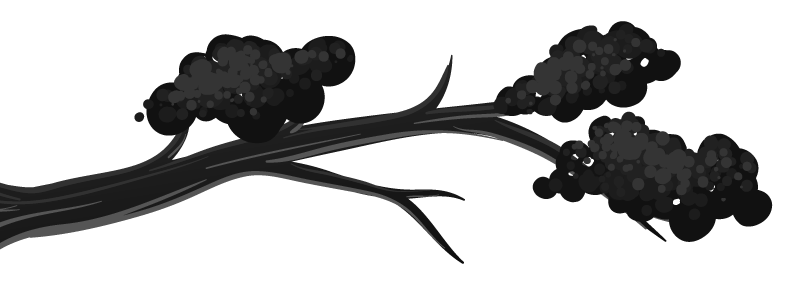
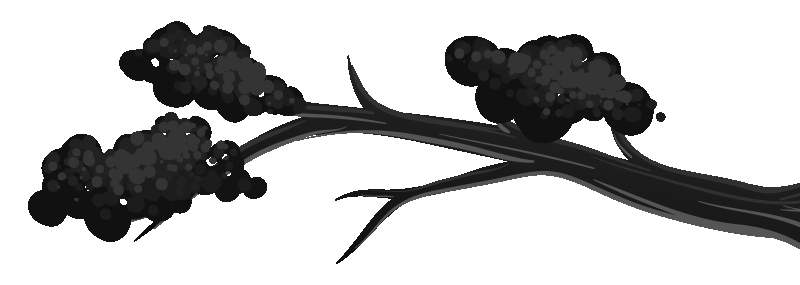
Intermediate 2

Changed region(s): [[0.0, 0.0561, 1.0, 0.9263]]

diff --git a/src/Game/RenderEngine/RenderFactory.ts b/src/Game/RenderEngine/RenderFactory.ts
@@ -4,17 +4,18 @@ import {randomRange} from "@/Game/helpers/randomRange.ts";
 import {Tick} from "@/GameEngine/Tick.ts";
 import {getImagesByType, RenderImageType} from "@/Game/RenderEngine/imageRegistry.ts";
 
-type TupledFields = 'random_x' | 'random_y' | 'spawn_amount';
+type TupledFields = 'random_x' | 'random_y' | 'spawn_amount' | 'z';
 type RenderFactoryConfigProps = {
   initial_amount: number;
   random_x: number | [number, number];
   random_y: number | [number, number];
+  z: number | [number, number];
   spawn_amount: number | [number, number]; // A number say between 0 and the value. An array means between x and y
   spawn_min_distance: number; // Distance to the closest element in the list. Before min_distance is reached no new spawn is triggered
   spawn_chance: number; // 0 - 100. The percentage chance to spawn a new element. If the current amount is smaller than the min amount. A spawn is triggered, no matter the chance
   image_type: RenderImageType;
   unmount_on_leaving_viewport: boolean;
-} & RenderElement
+} & Omit<RenderElement, 'image' | 'z'>
 
 // The normalized version
 type NormalizedRenderFactoryConfig = {
@@ -23,7 +24,7 @@ type NormalizedRenderFactoryConfig = {
 
 const defaultConfig: NormalizedRenderFactoryConfig = {
   initial_amount: 1,
-  random_x: [-400, 800],
+  random_x: [0, 0],
   random_y: [0, 0],
   spawn_amount: [5, 10],
   spawn_min_distance: 300, // should be 0
@@ -32,8 +33,7 @@ const defaultConfig: NormalizedRenderFactoryConfig = {
   unmount_on_leaving_viewport: false,
   offset_x: 0,
   offset_y: 0,
-  z: 0,
-  image: 'cloud1',
+  z: [3, 8],
   type: 'cloud',
 }
 
@@ -75,15 +75,15 @@ export class RenderFactory {
     unmount_on_leaving_viewport: normalizeValue('unmount_on_leaving_viewport', config),
     offset_x: normalizeValue('offset_x', config),
     offset_y: normalizeValue('offset_y', config),
-    z: normalizeValue('z', config),
-    image: normalizeValue('image', config),
+    z: normalizeRange(config?.z, defaultConfig.z),
     type: normalizeValue('type', config),
   })
 
   private createRandomElement = (): Renderable => {
-    const offset_x = randomRange(...this.config.random_x)
+    const offset_x = randomRange(...this.config.random_x) + (this.config.offset_x || 0)
     const offset_y = randomRange(...this.config.random_y)
-    const random_z = 3 + Math.random() * 5
+    const random_z = randomRange(...this.config.z)
+    console.log(random_z, this.config.z)
     return new this.Factory({
       image: this.randomImage().key,
       type: this.config.image_type,
@@ -94,8 +94,8 @@ export class RenderFactory {
   }
 
   private spawnElement = (): Renderable => {
-    const offset_x = randomRange(...this.config.random_x)
-    const random_z = 3 + Math.random() * 5
+    const offset_x = randomRange(...this.config.random_x) + (this.config.offset_x || 0)
+    const random_z = randomRange(...this.config.z)
     return new this.Factory({
       image: this.randomImage().key,
       type: this.config.image_type,
@@ -189,10 +189,10 @@ const normalizeRange = (
   defaultValue = [0, 1],
 ): [number, number] => {
   if (Array.isArray(value)) {
-    return value
+    return value.sort((a, b) => a - b)
   }
   const [min, max] = defaultValue
-  return [min, value || max]
+  return [value ?? min, value ?? max]
 }
 const normalizeValue = <K extends keyof RenderFactoryConfigProps>(
   key: K,

diff --git a/src/Game/Views/Gaja/Gaja.tsx b/src/Game/Views/Gaja/Gaja.tsx
@@ -6,7 +6,7 @@ import {Behemoth} from "./Behemoth.tsx";
 import image from '../../../assets/images/seemless_trunk.png';
 import {useComponentMount} from "@/GameEngine/ResourceEngine/hooks";
 import {RenderFactory} from "@/Game/RenderEngine/RenderFactory.ts";
-import {Branch, Cloud} from "@/Game/RenderEngine/Renderable.ts";
+import {Branch} from "@/Game/RenderEngine/Renderable.ts";
 import {BACKGROUND_IMAGE_WIDTH} from "@/Game/RenderEngine/media_queries.ts";
 
 
@@ -32,20 +32,32 @@ export const Gaja = observer(() => {
     //   z: 10,
     //   image: 'cloud1'
     // }))
-    // renderEngine.add(new Mushroom({
+    // renderEngine.add(new Branch({
     //   type: 'branch',
-    //   offset_x: -40,
+    //   offset_x: -700,
     //   offset_y: 0,
-    //   z: -5,
+    //   z: -8,
     //   image: 'branch3',
     //   sticky: true,
     // }))
-    renderEngine.addFactory(new RenderFactory(Cloud, {initial_amount: 5}))
+    // renderEngine.addFactory(new RenderFactory(BranchForeground, {initial_amount: 5}))
+    // renderEngine.addFactory(new RenderFactory(Cloud, {
+    //   initial_amount: 5,
+    //   random_x: [-400, 800],
+    // }))
+    // renderEngine.add(new Branch({z: -9, image: 'branch1', type: 'branch', offset_x: -700}))
     renderEngine.addFactory(new RenderFactory(Branch, {
       initial_amount: 3,
       image_type: 'branch',
-      z: 1,
+      z: [0, -8],
+      offset_x: -700,
     }))
+    // renderEngine.addFactory(new RenderFactory(Branch, {
+    //   initial_amount: 3,
+    //   image_type: 'test',
+    //   z: 0,
+    //   offset_x: 0,
+    // }))
   })
 
   const elements = renderEngine.getElements()
@@ -65,7 +77,7 @@ export const Gaja = observer(() => {
           }}
         >
           <img src={element.image} alt=""/>
-          <p className="relative top-[-250px] right-[-100px]">{element.y.toFixed()}</p>
+          {/*<p className="relative top-[-250px] right-[-100px]">{element.y.toFixed()}</p>*/}
         </div>
       ))}
       {/*{elements.map(element => (*/}

diff --git a/src/Game/RenderEngine/imageRegistry.ts b/src/Game/RenderEngine/imageRegistry.ts
@@ -7,11 +7,13 @@ import branch_image3 from '../../assets/images/Branch4.png'
 import branch_image4 from '../../assets/images/Branch5.png'
 import branch_image5 from '../../assets/images/Branch6.png'
 import branch_image6 from '../../assets/images/Branch7.png'
+import test_image from '../../assets/images/test.png'
 
 // type ImageType = 'cloud' | 'branch'
 // type ImageMeta = { image: string; width: number; height: number; type: ImageType };
 
 const imageRegistry = [
+  { key: 'test', image: test_image, width: 160, height: 100, type: 'test' },
   { key: 'cloud1', image: cloud_image1, width: 768, height: 369, type: 'cloud' },
   { key: 'cloud2', image: cloud_image2, width: 674, height: 375, type: 'cloud' },
   // { key: 'cloud3', image: cloud_image4, width: 600, height: 420, type: 'cloud' },

diff --git a/src/Game/RenderEngine/Renderable.ts b/src/Game/RenderEngine/Renderable.ts
@@ -81,7 +81,12 @@ export abstract class Renderable {
     let zOffset = this.offset_z * 8
     zOffset = 0
     const delta = this.world_y - this.initial_y + this.offset_y;
-    const parallax = (1 + this.offset_z / (20 - PARALLAX_INTENSITY))
+    const getParallaxFactor = (val: number): number => {
+      return 10 ** (-val / 10);
+    };
+    // const parallax = ((1 + this.offset_z) / (20 - PARALLAX_INTENSITY))
+    const parallax = getParallaxFactor(-this.offset_z)
+    console.log(this.offset_z, parallax)
     return delta * parallax - zOffset
   }
 

diff --git a/src/Game/RenderEngine/RenderEngine.ts b/src/Game/RenderEngine/RenderEngine.ts
@@ -24,6 +24,7 @@ export type RenderElement = {
   // width: number;
   // height: number;
   id?: string; // optional, for keyed rendering
+  sticky?: boolean; // This exists because I have to connect the position to elements that are defined by media queries
 }
 
 export class RenderEngine {

diff --git a/src/Game/helpers/randomRange.ts b/src/Game/helpers/randomRange.ts
@@ -1,4 +1,7 @@
 export const randomRange = (from: number, to: number) => {
+  if (from === to) {
+    return from;
+  }
   if (to < from) {
     console.warn('to is lower then from here')
     return to;
